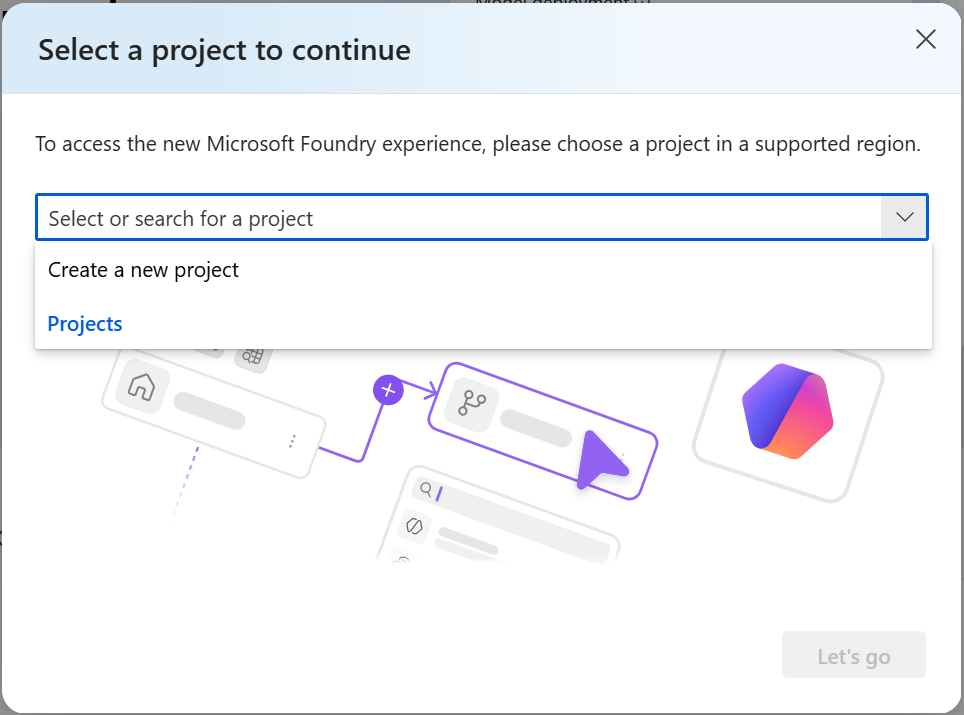
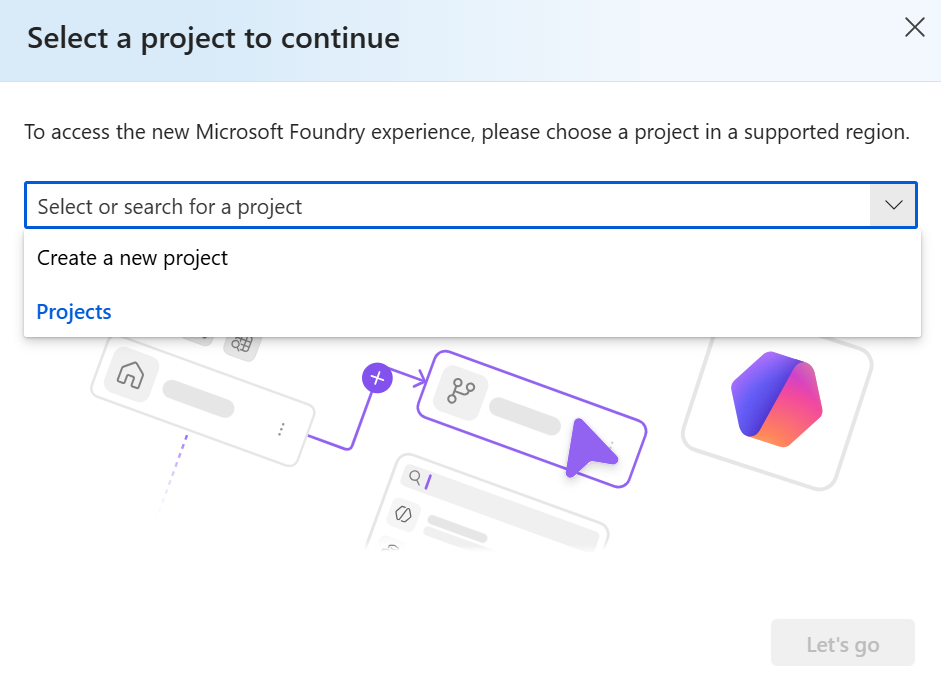
adjusted spacing

diff --git a/Instructions/08-build-workflow-ms-foundry.md b/Instructions/08-build-workflow-ms-foundry.md
@@ -303,7 +303,9 @@ In this section, you'll add conditional logic to route the ticket based on its c
 
 
     Copilot said:
-    Thank you for reaching out about the 403 error when creating invoices. This error typically indicates a permissions or access issue. Please ensure that your API key has the necessary permissions for invoice creation and that your request is being sent to the correct endpoint. If the issue persists, try regenerating your API key and updating it in your integration to see if that resolves the problem.
+    Thank you for reaching out about the 403 error when creating invoices. This error typically indicates a permissions or access issue. 
+    Please ensure that your API key has the necessary permissions for invoice creation and that your request is being sent to the correct endpoint. 
+    If the issue persists, try regenerating your API key and updating it in your integration to see if that resolves the problem.
     ```
 
 ## Summary
